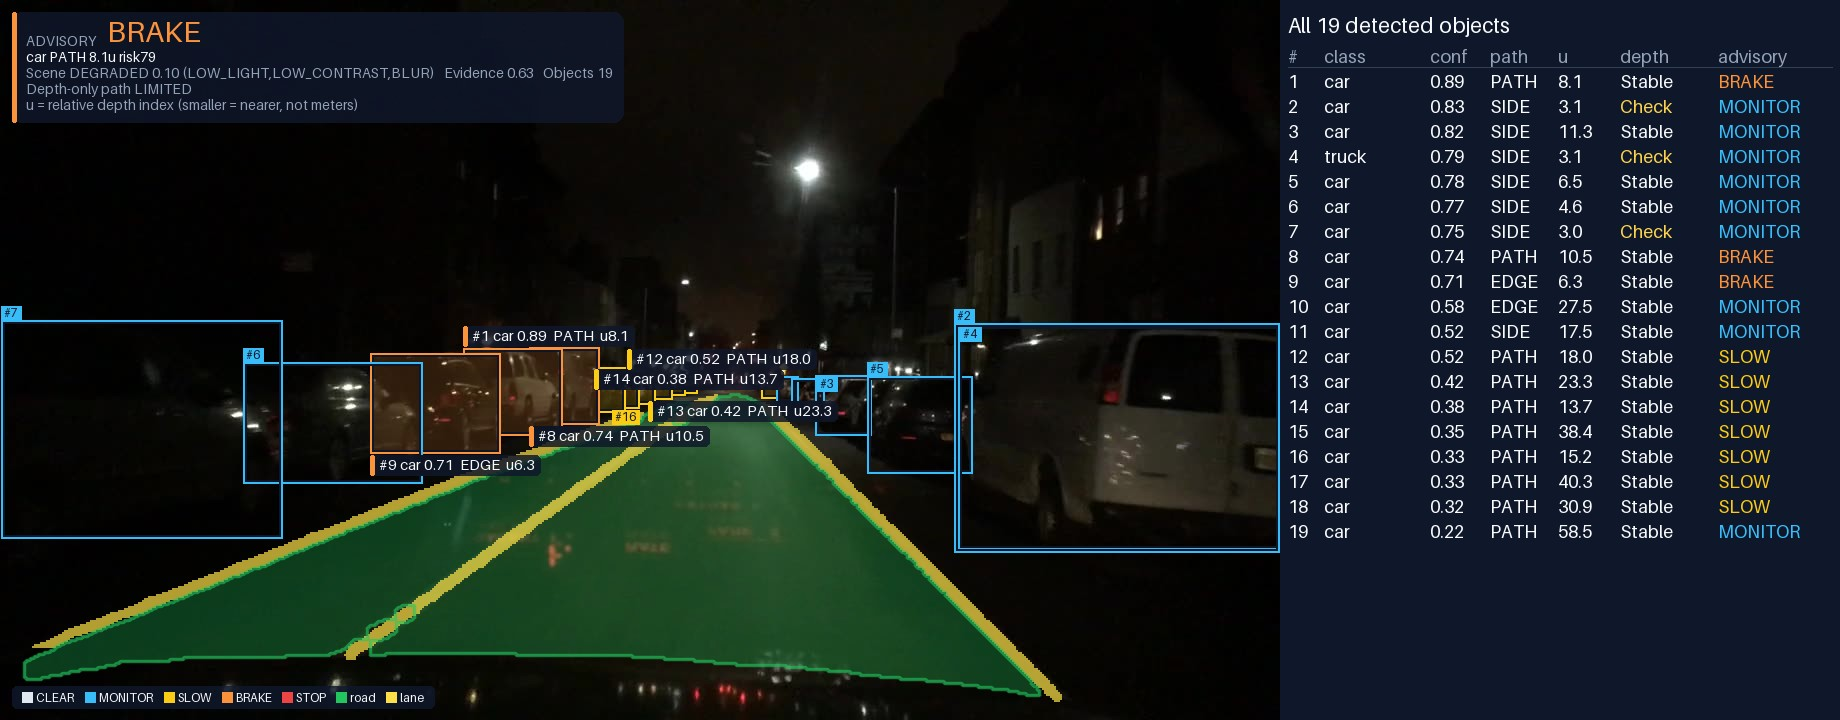
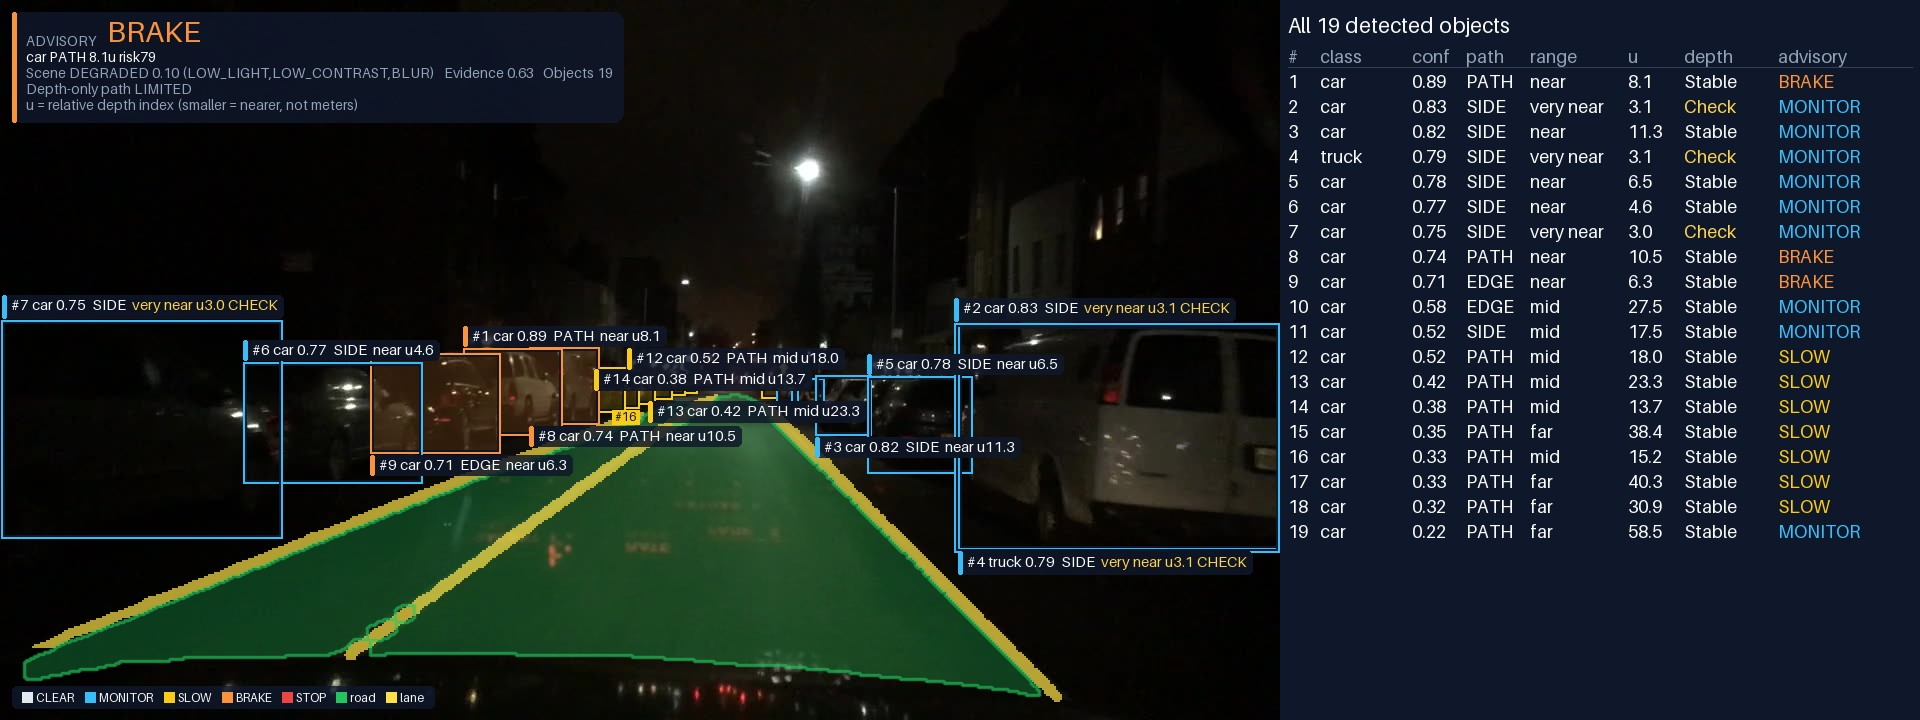
Overlay: near objects always labeled, relative range band in labels and table; README images

diff --git a/paper_visualization.py b/paper_visualization.py
@@ -24,6 +24,9 @@ ADVISORY_RGB = {
 }
 ROAD_RGB, LANE_RGB = (34, 197, 94), (253, 224, 71)
 CARD_RGBA, TEXT_RGB, MUTED_RGB, WARN_RGB = (15, 23, 42, 214), (248, 250, 252), (148, 163, 184), (252, 211, 77)
+# Relative range band of the audit record (thresholds on u, set by the pipeline): words, never meters.
+BAND_WORDS = {"VERY-NEAR": "very near", "NEAR": "near", "MID": "mid", "FAR": "far", "VERY-FAR": "very far"}
+NEAR_BOX = 0.12  # boxes at least this share of the image height (near objects) always get a full label
 FULL_LABEL_LIMIT = 8  # more labels than this hide the scene; the other objects get a one-letter tag
 
 
@@ -64,6 +67,9 @@ def _object_label(det, compact=False):
     state = str(det.get("original_unit_status", "")).upper()
     uncertain = state != "STABLE"
     depth = f"u{float(unit):.1f}" if unit is not None else "u n/a"
+    band = BAND_WORDS.get(str(det.get("distance_band", "")).upper())
+    if band and not compact:
+        depth = f"{band} {depth}"
     if uncertain:
         depth += f" {state or 'UNKNOWN'}"  # the depth state is written out when it is not STABLE
     return main, depth, uncertain
@@ -185,12 +191,20 @@ def render_overlay(image, road_mask=None, lane_mask=None, detections=(), advisor
         draw.text((cursor + swatch + int(round(4 * scale)), legend[1] + int(round(4 * scale))), name, font=tag_font, fill=TEXT_RGB + (255,))
         cursor += swatch + int(round(14 * scale)) + text_w
 
-    # Labels: the most severe objects get a full label, placed where it covers no other label.
+    # Labels: near (large) objects always get a full label, then the most severe ones up to the
+    # limit; each label is placed where it covers no other label.
     taken = [card, legend]
-    ranked = sorted(objects, key=lambda o: (-o["severity"], -o["risk"], -(o["box"][2] - o["box"][0]) * (o["box"][3] - o["box"][1])))
+
+    def is_near(item):
+        return not compact and (item["box"][3] - item["box"][1]) >= NEAR_BOX * height
+
+    ranked = sorted(objects, key=lambda o: (-is_near(o), -o["severity"], -o["risk"],
+                                            -(o["box"][2] - o["box"][0]) * (o["box"][3] - o["box"][1])))
     full = 0
+    limit = min(max_labels, 6) if numbered else max_labels
     for item in ranked:
         x1, y1, x2, y2 = item["box"]
+        near = is_near(item)
         main, depth, uncertain = _object_label(item["det"], compact)
         if numbered:
             main = f"#{item['number']} " + main
@@ -198,8 +212,11 @@ def render_overlay(image, road_mask=None, lane_mask=None, detections=(), advisor
         depth_w, depth_h, _ = _text_size(draw, depth, label_font)
         label_w, label_h = stripe + 2 * pad + main_w + depth_w, max(main_h, depth_h) + 2 * pad
         spot = None
-        if full < (min(max_labels, 6) if numbered else max_labels) and (y2 - y1) >= 0.03 * height:
-            for left, top in ((x1, y1 - label_h - 2), (x1, y2 + 2), (x2 - label_w, y1 - label_h - 2), (x2 - label_w, y2 + 2), (x1 + line, y1 + line)):
+        if (near or full < limit) and (y2 - y1) >= 0.03 * height:
+            spots = [(x1, y1 - label_h - 2), (x1, y2 + 2), (x2 - label_w, y1 - label_h - 2), (x2 - label_w, y2 + 2), (x1 + line, y1 + line)]
+            if near:  # a large box has room inside for its label
+                spots += [(x1 + line, y2 - label_h - line), (x1 + line, (y1 + y2 - label_h) // 2)]
+            for left, top in spots:
                 left = min(max(left, 2), max(2, width - label_w - 2))
                 top = min(max(top, 2), max(2, height - label_h - 2))
                 candidate = (left, top, left + label_w, top + label_h)
@@ -207,7 +224,7 @@ def render_overlay(image, road_mask=None, lane_mask=None, detections=(), advisor
                     spot = candidate
                     break
         if spot is not None:
-            full += 1
+            full += 0 if near else 1
             taken.append(spot)
             draw.rounded_rectangle(spot, radius=radius, fill=CARD_RGBA)
             draw.rounded_rectangle((spot[0], spot[1], spot[0] + stripe, spot[3]), radius=stripe // 2, fill=item["color"] + (255,))
@@ -346,16 +363,16 @@ def save_visualizations(original, overlay, raw_depth, output_dir, stem):
     return {"files": {key: str(path.resolve()) for key, path in files.items()}, "depth_display": normalization, "layout": "original | overlay | relative depth"}
 
 
-def render_object_table(detections, height, width=560):
+def render_object_table(detections, height, width=640):
     """Side panel (BGR, given height) listing every fused object of an overlay drawn with
-    numbered=True: number, class, detector confidence, path relation, relative depth index u,
-    depth state and the advisory that object raised. Presentation only."""
+    numbered=True: number, class, detector confidence, path relation, relative range band and
+    depth index u (never meters), depth state and the advisory that object raised. Presentation only."""
     rows = [d for d in (detections or ()) if (d.get("box_xyxy") or d.get("box"))]
     panel = Image.new("RGB", (width, height), (15, 23, 42))
     draw = ImageDraw.Draw(panel)
     head, body = _font(max(13, height / 34)), _font(max(11, min(height / 40, (height - 70) / max(len(rows), 1) * 0.72)))
     row_h = max(12, min(int(height / 28), int((height - 70) / max(len(rows), 1))))
-    columns = [("#", 8), ("class", 44), ("conf", 150), ("path", 210), ("u", 278), ("depth", 340), ("advisory", 438)]
+    columns = [("#", 8), ("class", 40), ("conf", 132), ("path", 186), ("range", 250), ("u", 348), ("depth", 404), ("advisory", 498)]
     y = 12
     draw.text((8, y), f"All {len(rows)} detected objects", font=head, fill=TEXT_RGB)
     y += int(head.size * 1.6) if hasattr(head, "size") else 28
@@ -371,7 +388,8 @@ def render_object_table(detections, height, width=560):
         state = str(det.get("original_unit_status", "")).upper()
         unit = det.get("original_inverse_depth_unit")
         values = [f"{index}", str(det.get("class", "")), f"{float(det.get('confidence', 0.0)):.2f}",
-                  str(det.get("corridor_relation", "")), f"{float(unit):.1f}" if unit is not None else "n/a",
+                  str(det.get("corridor_relation", "")), BAND_WORDS.get(str(det.get("distance_band", "")).upper(), "n/a"),
+                  f"{float(unit):.1f}" if unit is not None else "n/a",
                   state.title(), action]
         for (name, x), value in zip(columns, values):
             color = TEXT_RGB

diff --git a/README.md b/README.md
@@ -155,7 +155,9 @@ record. Real outputs on BDD100K validation images:
 
 **Every detection, with its numbers.** With `numbered=True` each detected object carries its number
 on the image, and `render_object_table` lists all of them with class, detector confidence, path
-relation, relative depth index `u`, depth state and the advisory that object raised:
+relation, relative range (`very near`, `near`, `mid`, `far`: bands of `u`, not meters), relative depth
+index `u`, depth state and the advisory that object raised. Near objects (large boxes) are always
+labeled on the image:
 
 <p align="center">
   <img src="docs/assets/detail_dense.jpg" width="100%" alt="Dense street: 25 numbered detections and a table of all of them">
@@ -169,7 +171,7 @@ users on the test split (21 of 34 in the dense street above, 10 of 12 in the nig
 
 **Reading the overlay.** Each box takes the color of the advisory that object raised
 (`CLEAR` grey, `MONITOR` blue, `SLOW` yellow, `BRAKE` orange, `STOP` red); objects at `SLOW` or above
-are also filled. A label reads `class confidence  relation  u<index>`: `relation` is `PATH`,
+are also filled. A label reads `class confidence  relation  range u<index>`: `relation` is `PATH`,
 `EDGE` or `SIDE`, and `u` is the relative depth index (smaller is nearer, within this image only).
 When the depth estimate is not `STABLE`, its state (`CHECK` or `UNCERTAIN`) follows `u`, in amber.
 In crowded scenes the most severe objects get full labels and the others a short tag (`PATH`,
